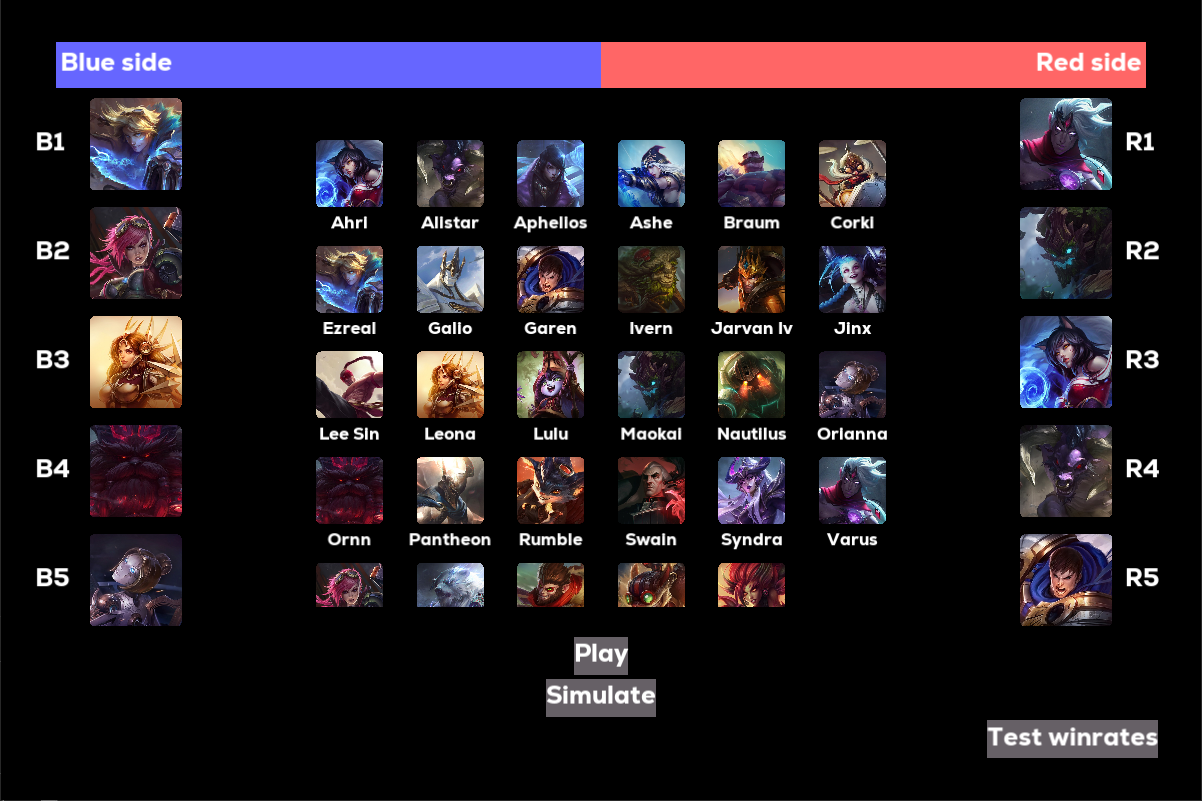
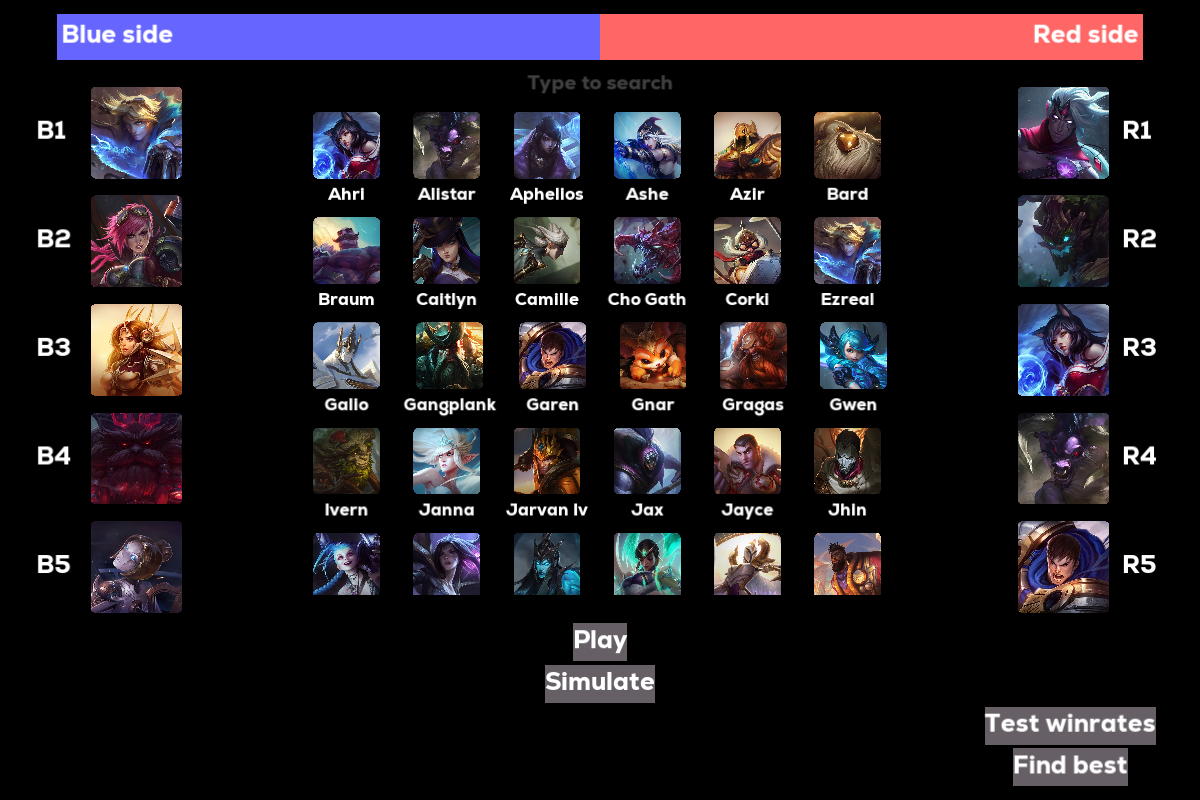
Update readme

diff --git a/README.md b/README.md
@@ -15,6 +15,12 @@
 
 ![simulation result image](./assets/examples/sim_end.png)
 
+### Find best in slot
+
+![find best image 1](./assets/examples/find_best_1.png)
+
+![find best image 2](./assets/examples/find_best_2.png)
+
 ## Running the program
 
 1. Install the [LÖVE game engine](https://love2d.org/) (< 10MB)
